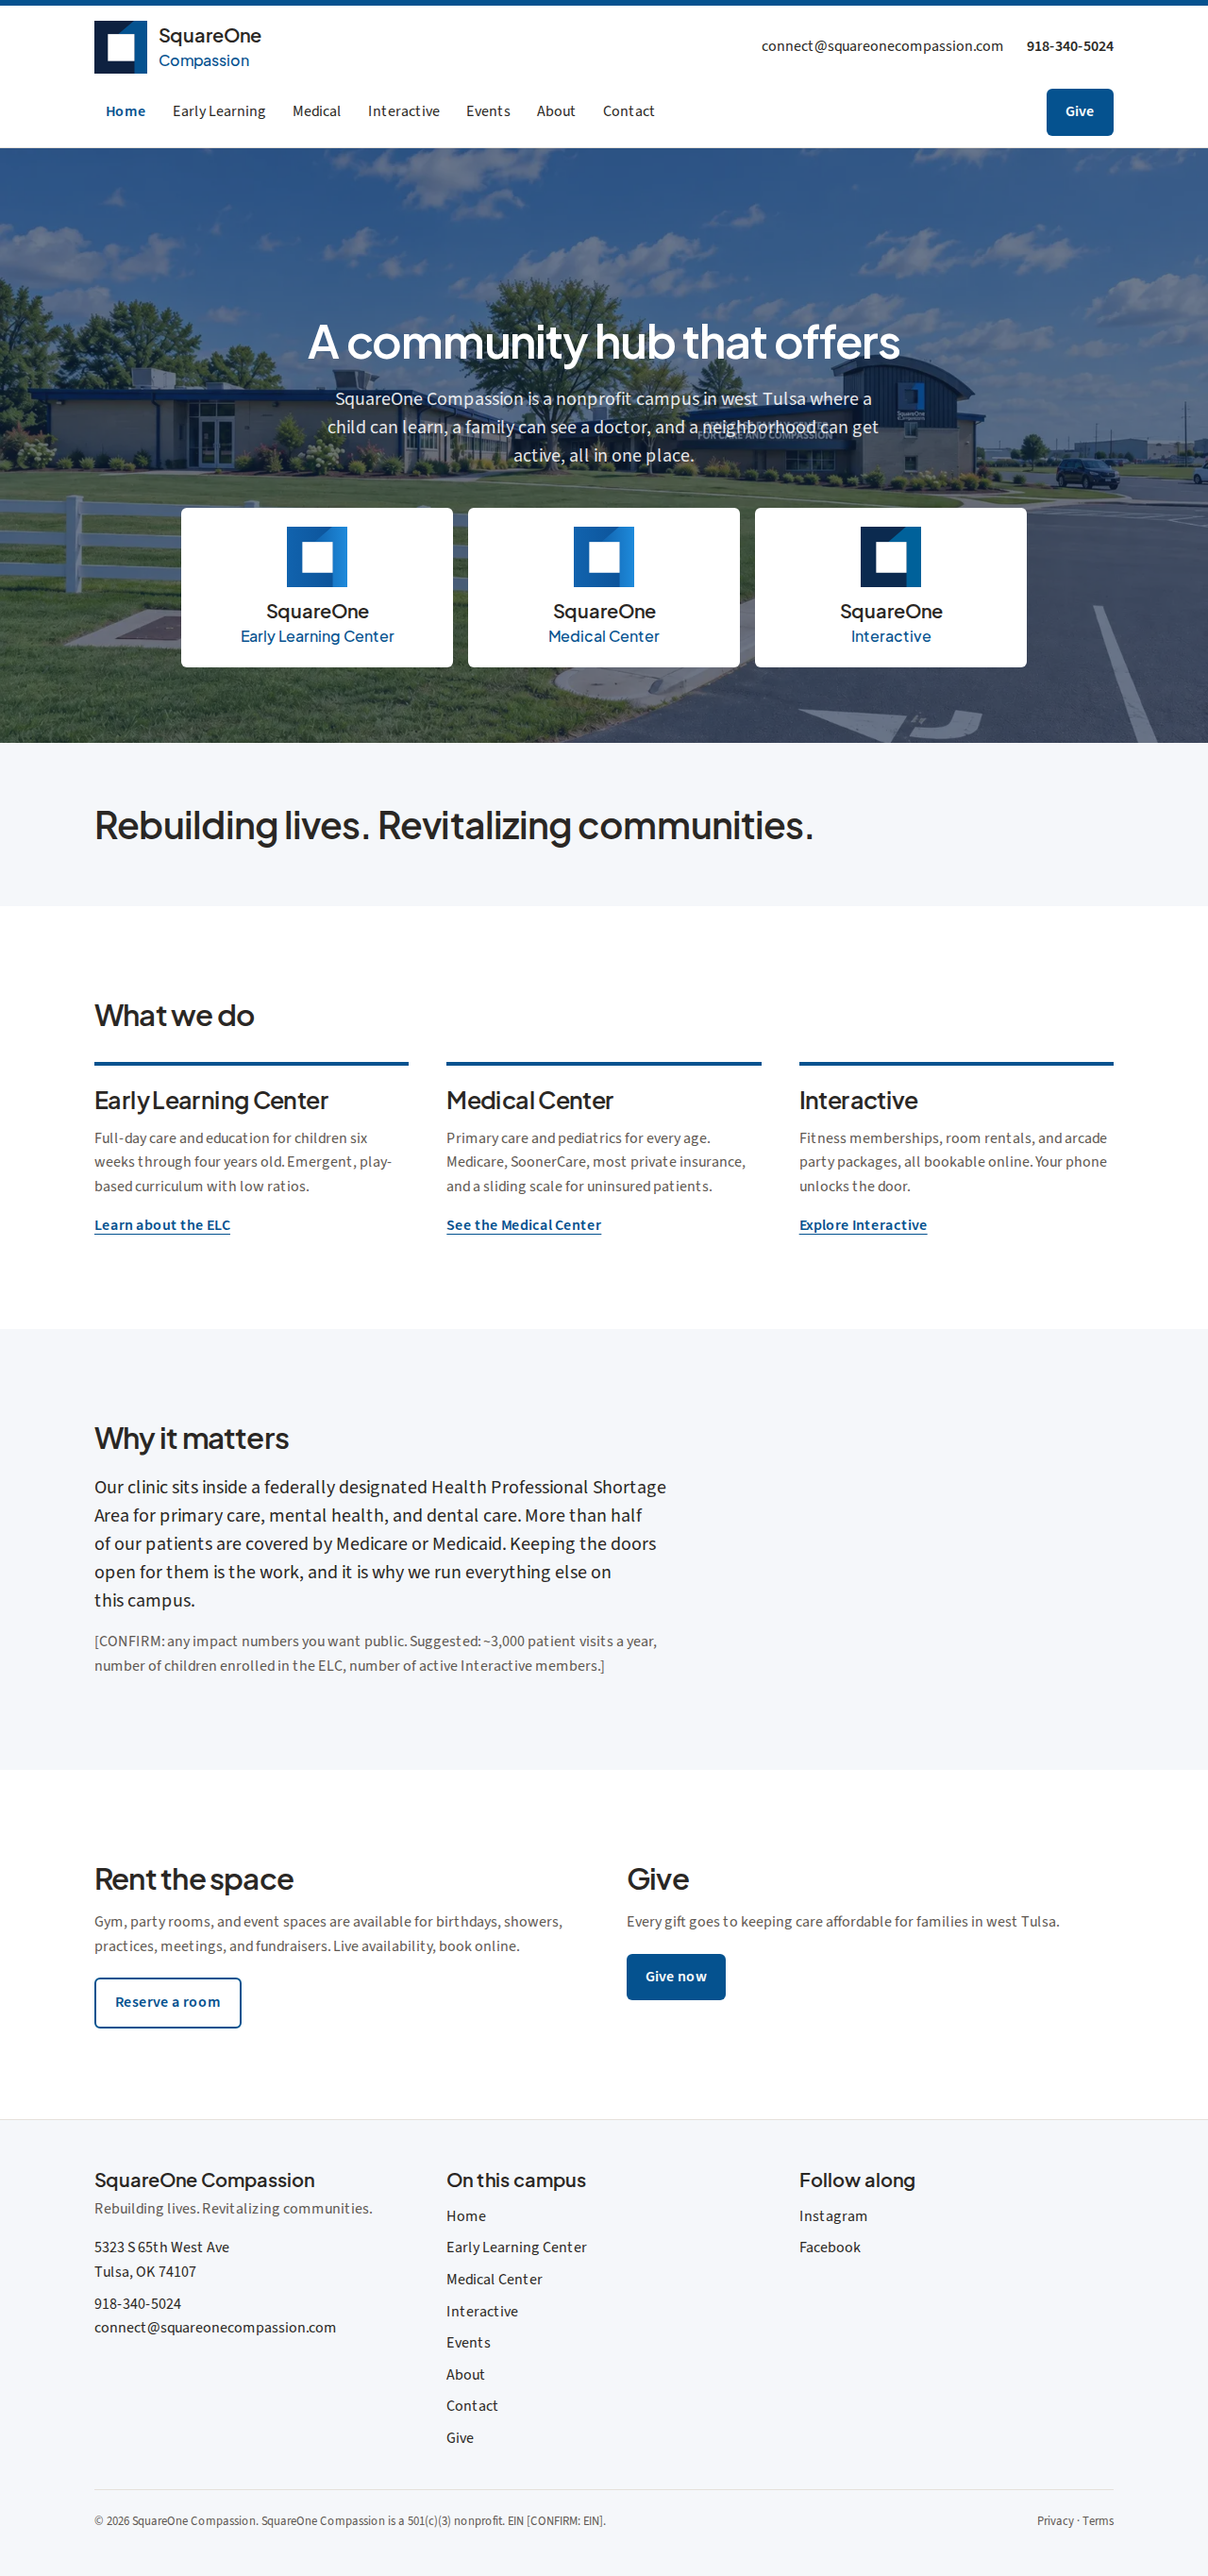
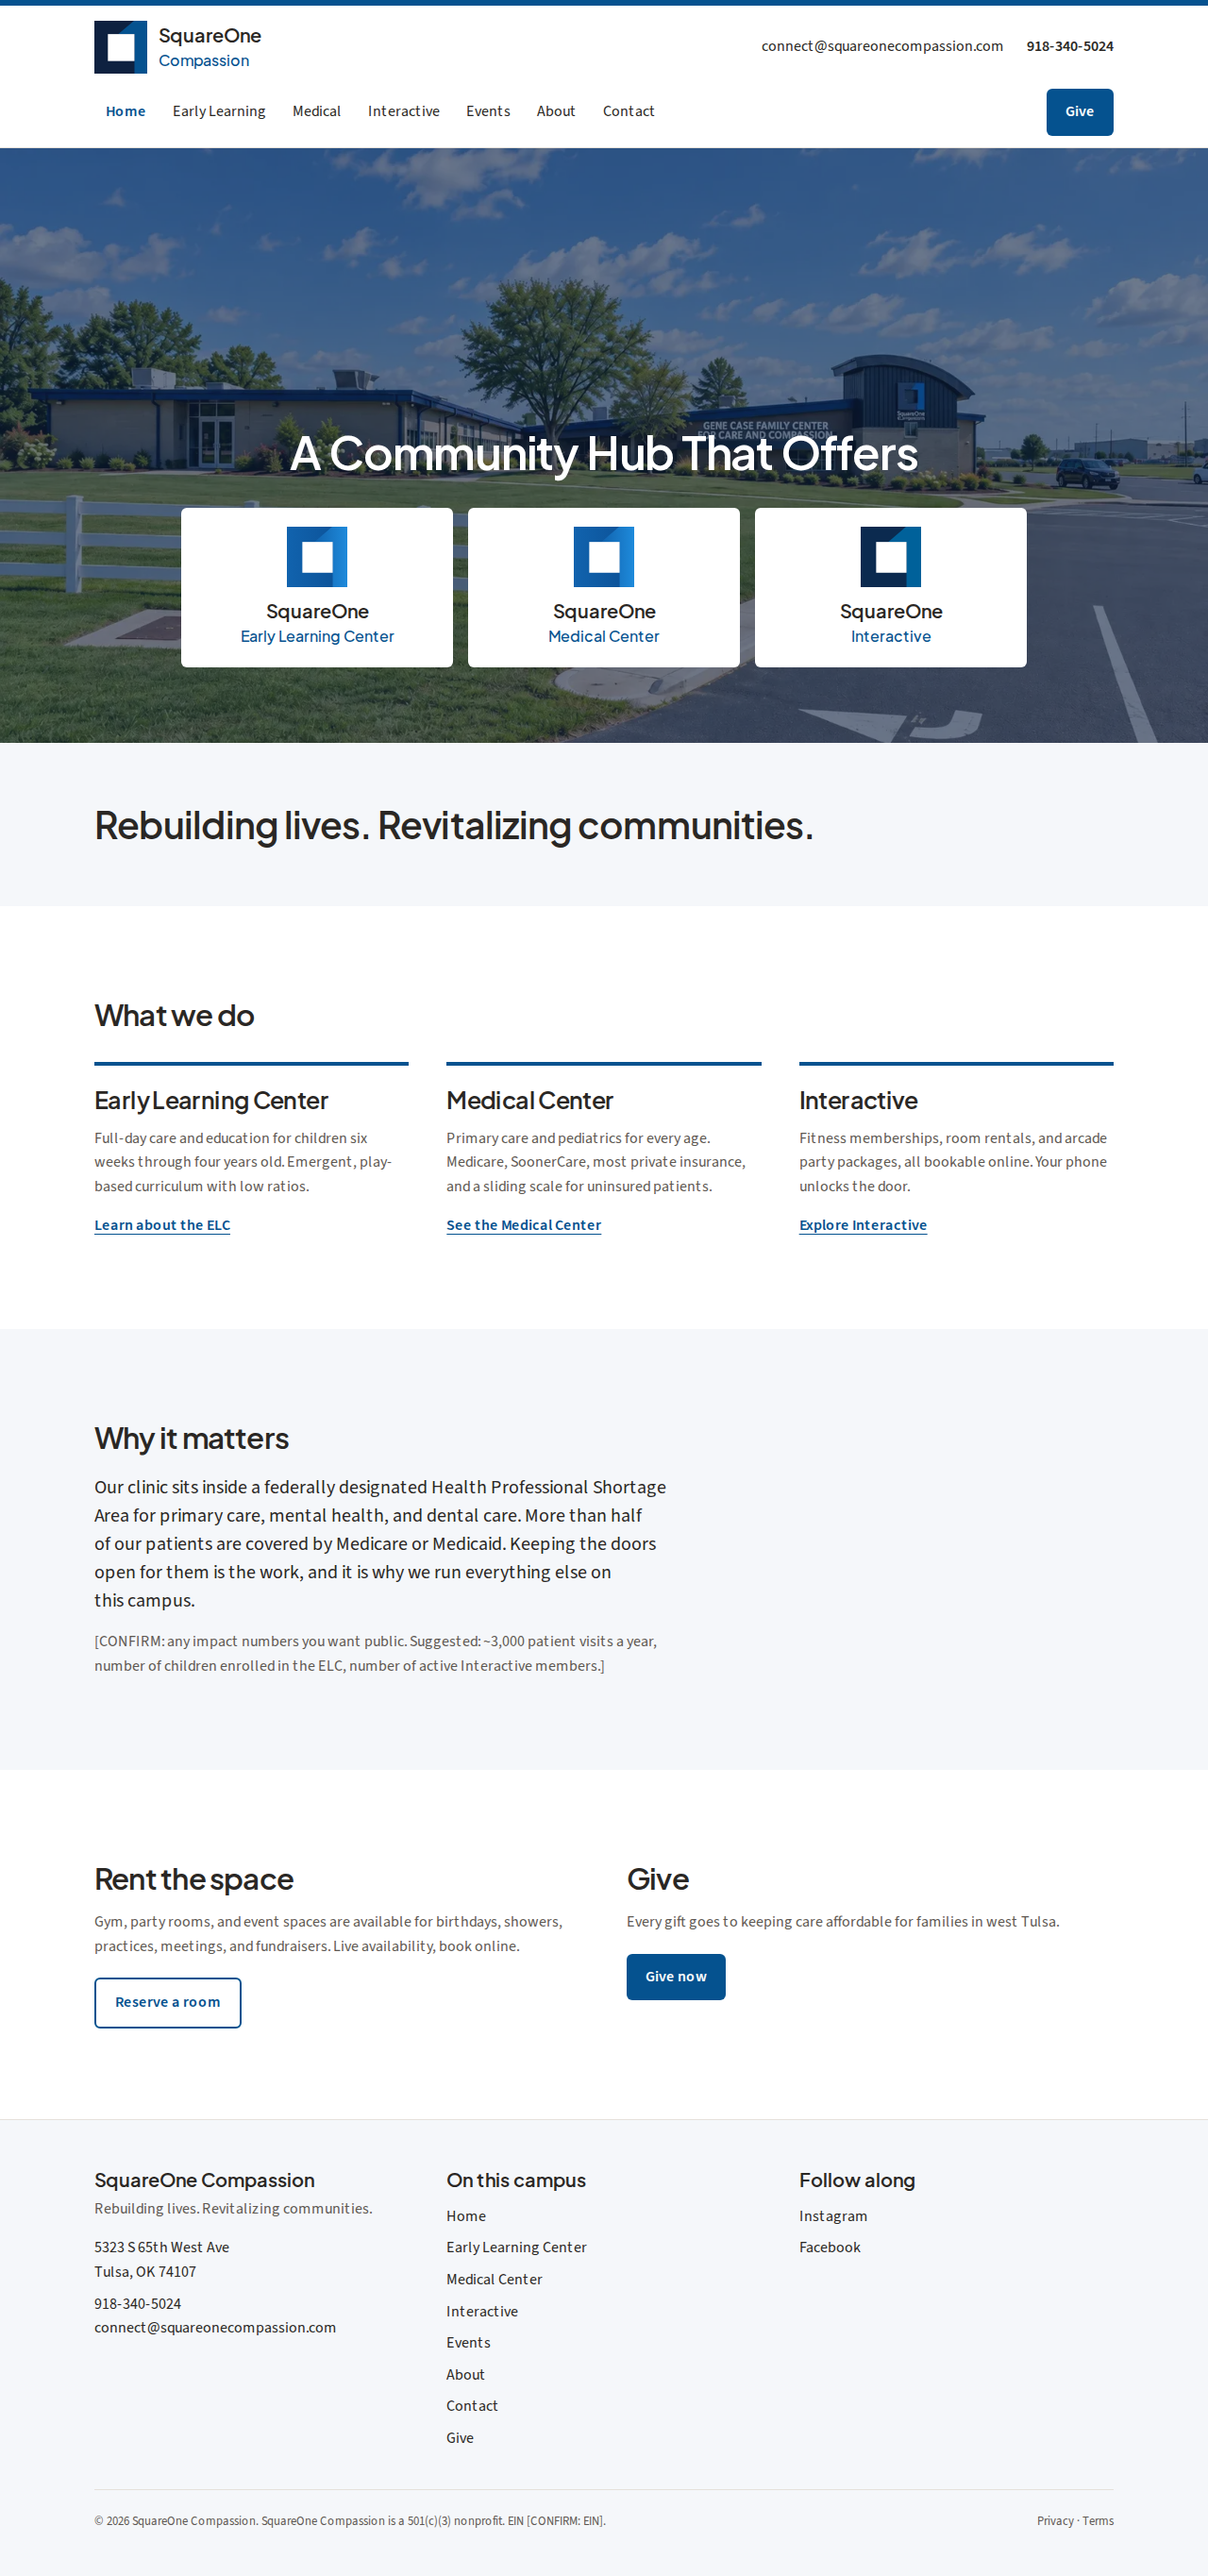
Title-case the home hero headline and drop the subhead
"A Community Hub That Offers" now sits directly above the three division
tiles, which complete the sentence. Hero subhead is optional; the former
subhead stays as the site meta description.

Claude-Session: https://claude.ai/code/session_01Dy1NBE1CDjARVuM4emY1ru

Changed region(s): [[0.25, 0.1246, 0.75, 0.1869]]

diff --git a/components/Hero.tsx b/components/Hero.tsx
@@ -10,7 +10,7 @@ const TILES = [
 ] as const
 
 /** The one memorable element: a single large campus photo with the three division logos as tappable tiles. */
-export function Hero({ headline, subhead }: { headline: string; subhead: string }) {
+export function Hero({ headline, subhead }: { headline: string; subhead?: string }) {
   const campus = photo('campus')
   return (
     <section className="relative isolate bg-brand-navy text-white">
@@ -26,9 +26,9 @@ export function Hero({ headline, subhead }: { headline: string; subhead: string 
       <div className="container flex min-h-[70vh] flex-col justify-end py-14 md:py-20">
         <div className="mx-auto max-w-3xl text-center">
           <h1 className="text-3xl text-white md:text-4xl">{headline}</h1>
-          <p className="mx-auto mt-5 max-w-prose text-lg text-white/90">{subhead}</p>
+          {subhead ? <p className="mx-auto mt-5 max-w-prose text-lg text-white/90">{subhead}</p> : null}
         </div>
-        <ul className="mx-auto mt-10 grid w-full max-w-4xl gap-4 sm:grid-cols-3">
+        <ul className="mx-auto mt-8 grid w-full max-w-4xl gap-4 sm:grid-cols-3">
           {TILES.map((t) => {
             const d = DIVISIONS[t.key]
             return (

diff --git a/app/page.tsx b/app/page.tsx
@@ -8,10 +8,7 @@ import { appUrl, ORG } from '@/lib/site'
 export default function HomePage() {
   return (
     <>
-      <Hero
-        headline="A community hub that offers"
-        subhead="SquareOne Compassion is a nonprofit campus in west Tulsa where a child can learn, a family can see a doctor, and a neighborhood can get active, all in one place."
-      />
+      <Hero headline="A Community Hub That Offers" />
 
       <section className="bg-tint py-12 md:py-16" aria-label="Our mission">
         <div className="container">

diff --git a/content/COPY.md b/content/COPY.md
@@ -20,9 +20,9 @@ Things deliberately removed from the old site because they are not current opera
 
 ## Home
 
-**Hero headline:** A community hub that offers
+**Hero headline:** A Community Hub That Offers (title case by Matt's request; the three tiles complete the sentence)
 
-**Hero subhead:** SquareOne Compassion is a nonprofit campus in west Tulsa where a child can learn, a family can see a doctor, and a neighborhood can get active, all in one place.
+**Hero subhead:** none. The tiles sit directly under the headline. The former subhead ("SquareOne Compassion is a nonprofit campus in west Tulsa where a child can learn, a family can see a doctor, and a neighborhood can get active, all in one place.") remains the site's meta description in app/layout.tsx.
 
 **Hero tiles (three, each shows a division logo):**
 - Early Learning Center → /early-learning
